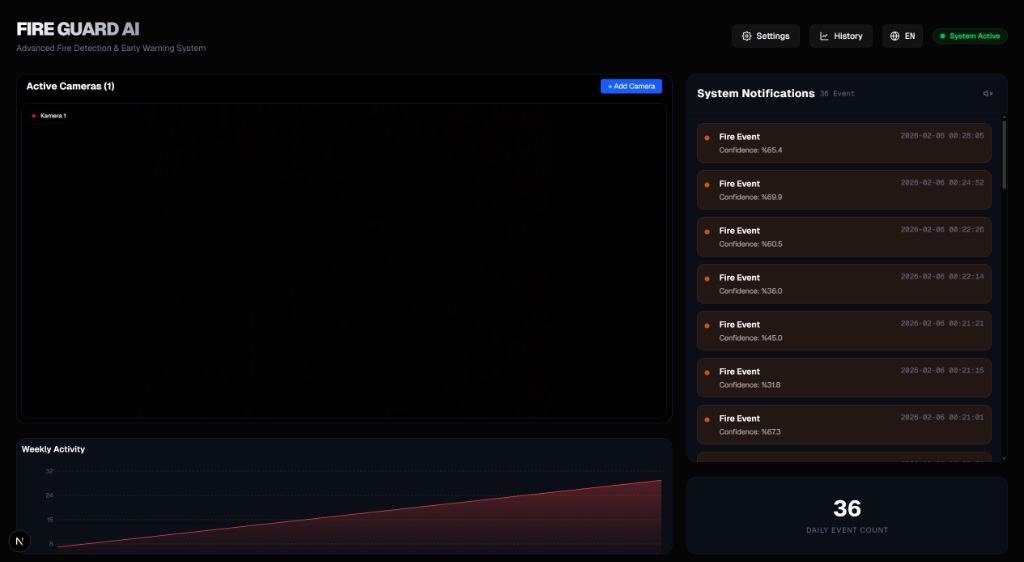
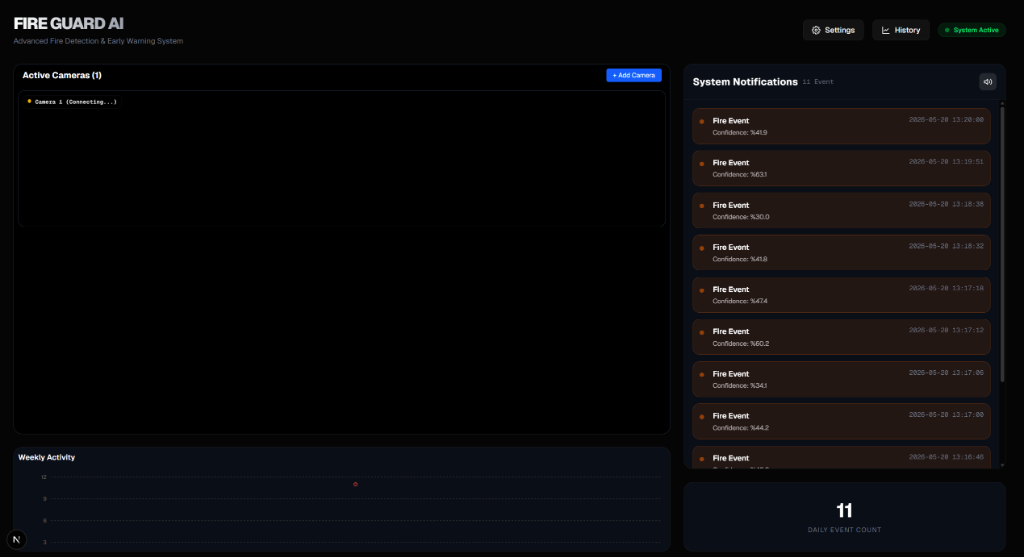
Add clickable Live Demo link and update dashboard screenshot in README.md

diff --git a/README.md b/README.md
@@ -2,6 +2,11 @@
 
 Fire Guard AI is an advanced fire and smoke detection system designed to provide 24/7 protection using real-time computer vision and artificial intelligence.
 
+### Live Demo
+Experience the live dashboard: [https://ai-fire-detection-drab.vercel.app/](https://ai-fire-detection-drab.vercel.app/)
+
+[![Dashboard Live Demo](docs/screenshots/dashboard.png)](https://ai-fire-detection-drab.vercel.app/)
+
 ## Features
 
 ### Real-Time Detection
